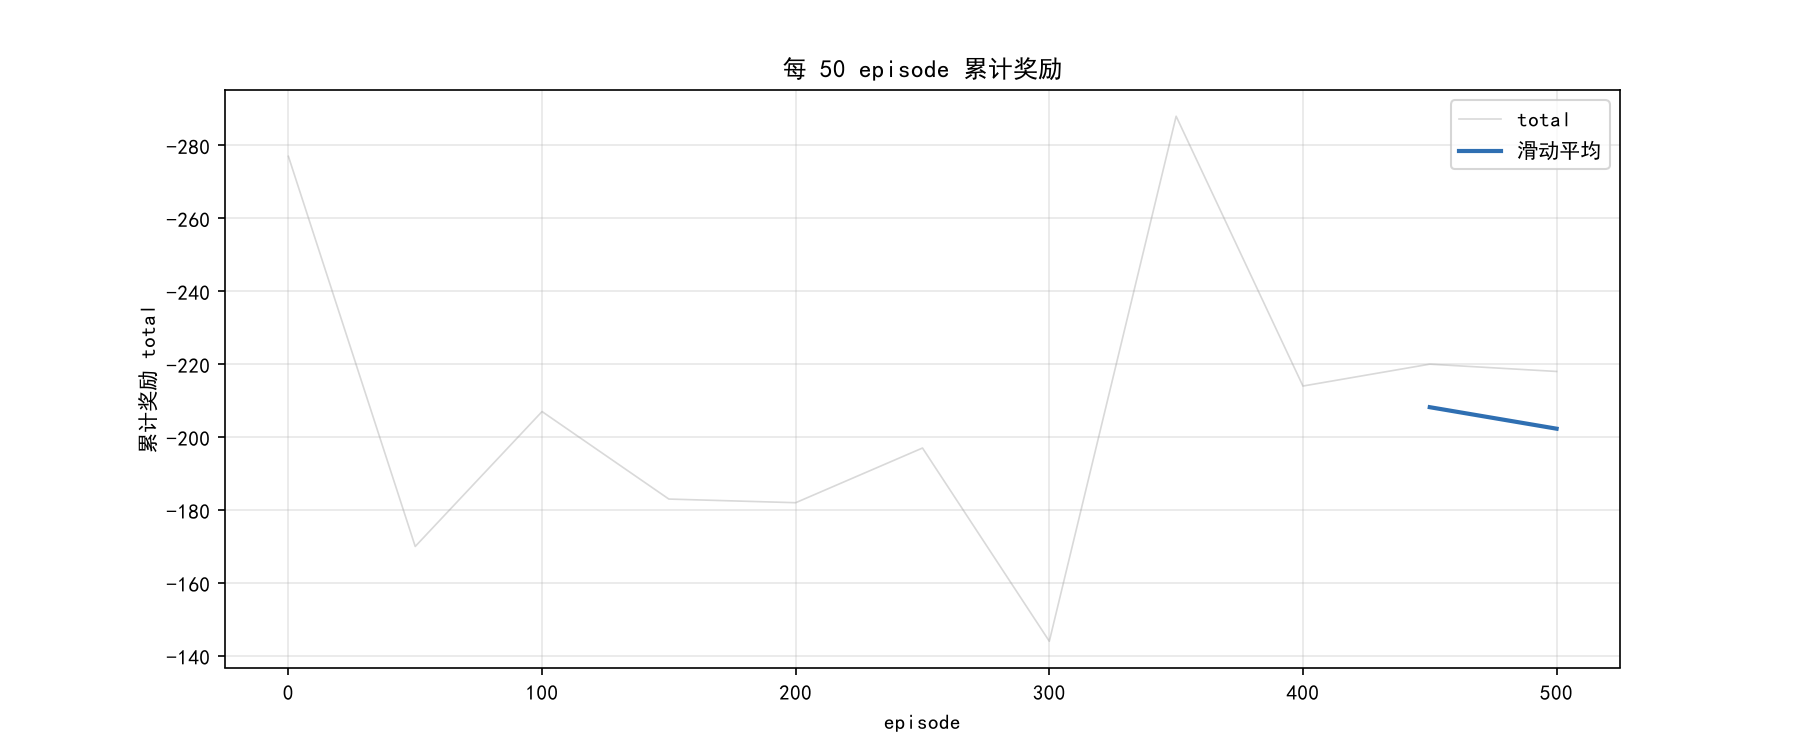
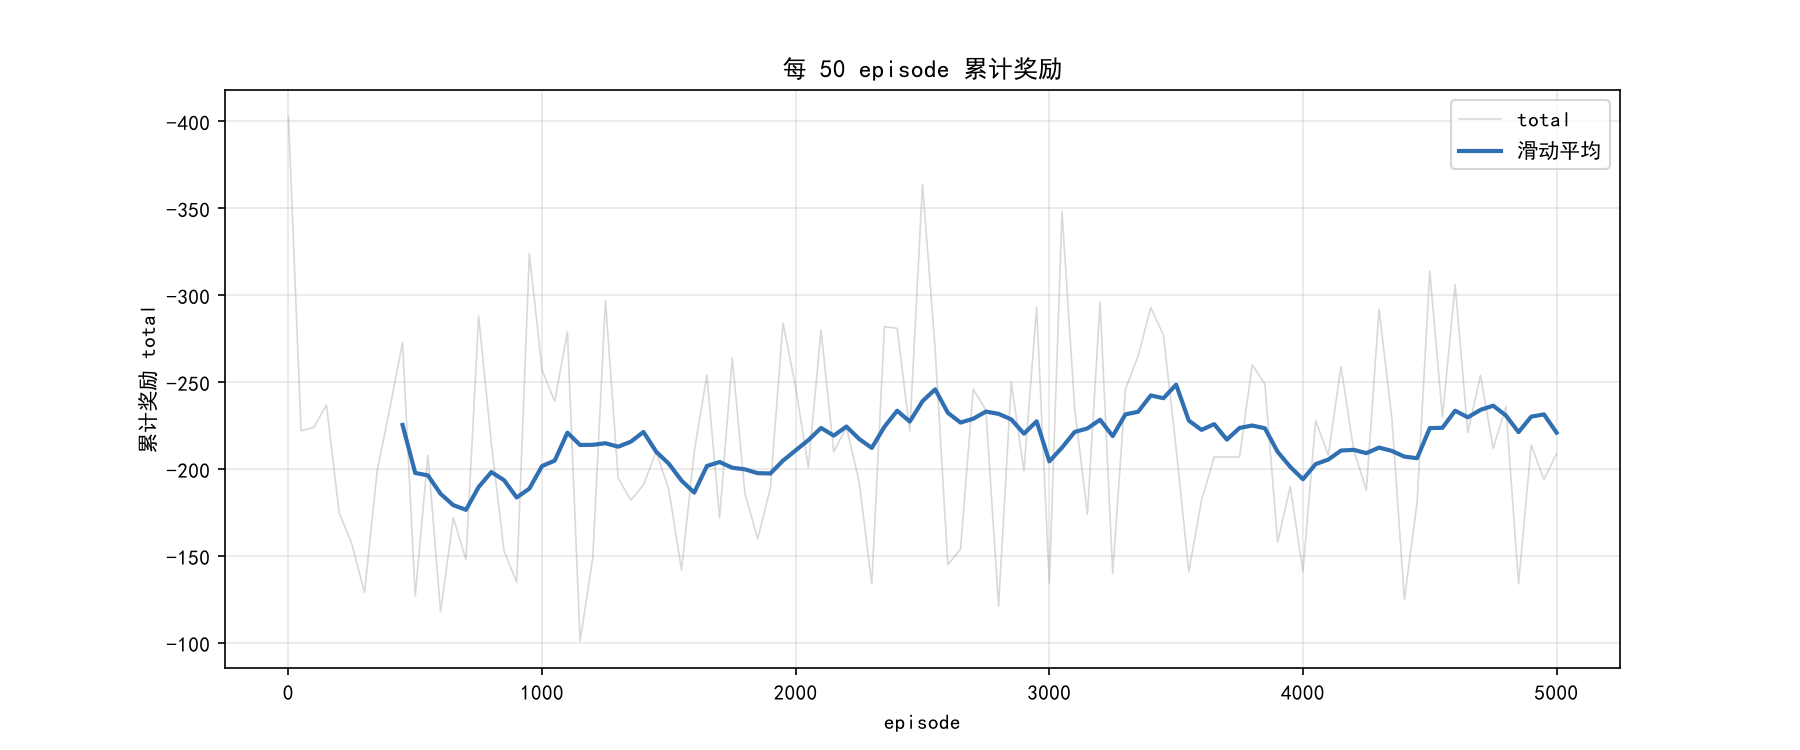
net.xml & rou.xml doc

diff --git a/SUMO/readme.md b/SUMO/readme.md
@@ -82,6 +82,200 @@ if replay_buffer.size() > minimal_size:
     agent.update(transition_dict)
 ```
 
-DQN 的收敛效果显然更好，基本上可以收敛到最优的结果。  
+DQN 的收敛效果显然更好些，基本上可以收敛到最优的结果。  
 
 ![](./res/dqn_total.png)
+
+
+## 分析现有路网与车流文件
+
+SUMO 的配置文件关系是：  
+```
+sumocfg 加载 -> net.xml(地图) + rou.xml (车)  
+```
+
+`cross.sumocfg` 是总开关，`cross.net.xml` 是路网，`cross.rou.xml` 是车流。  
+
+### net.xml
+`<location>` 记录地图的坐标边界，横坐标 - 100 到 500，纵坐标 -300 到 500。  
+``` xml
+<location netOffset="0.00,0.00" convBoundary="-100.00,-300.00,500.00,300.00" origBoundary="10000000000.00,10000000000.00,-10000000000.00,-10000000000.00" projParameter="!"/>
+```
+
+#### `<edge>`一条路段， `<lane>` 路上的一条车道。比如：  
+``` xml
+<edge id="E0" from="J0" to="J1" priority="-1">
+    <lane id="E0_0" index="0" speed="16.67" length="286.40" shape="-100.00,-8.00 186.40,-8.00"/>
+    <lane id="E0_1" index="1" speed="16.67" length="286.40" shape="-100.00,-4.80 186.40,-4.80"/>
+    <lane id="E0_2" index="2" speed="16.67" length="286.40" shape="-100.00,-1.60 186.40,-1.60"/>
+</edge>
+```
+
+- `id` 为路段名  
+- `from`->`to` 从哪到哪  
+- `priority` 静态优先级，-1 为无信号的保底，实际是信号灯接管。  
+lane 内：  
+- `index` 是车道从右往左的编号
+- `speed` 限速以 m/s 为单位  
+- `length` 路段长度(m)  
+- `shape` 几何形状
+
+**edge 命名黄金法则：正向无负号，反向带 `-`**  
+- `E0/E1/E2/E3` = 都驶入交叉口（进）  
+- `-E0/-E1/-E2/-E3` = 都驶出交叉口（出）  
+
+#### `<junction>` 交叉口：  
+
+<!--TODO: 这里不完善-->
+``` xml
+<junction id="J1" type="dead_end" x="-100.00" y="0.00" incLanes="-E0_0 -E0_1 -E0_2" intLanes="" shape="-100.00,0.00 -100.00,9.60 -100.00,0.00"/>
+<junction id="J1" type="traffic_light" x="200.00" y="0.00" incLanes="-E3_0 -E3_1 -E3_2 -E1_0 -E1_1 -E1_2 -E2_0 -E2_1 -E2_2 E0_0 E0_1 E0_2" intLanes=":J1_0_0 :J1_1_0 :J1_12_0 :J1_3_0 :J1_4_0 :J1_13_0 :J1_6_0 :J1_7_0 :J1_14_0 :J1_9_0 :J1_10_0 :J1_15_0" shape="190.40,13.60 209.60,13.60 210.04,11.38 210.60,10.60 211.38,10.04 212.38,9.71 213.60,9.60 213.60,-9.60 211.38,-10.04 210.60,-10.60 210.04,-11.38 209.71,-12.38 209.60,-13.60 190.40,-13.60 189.96,-11.38 189.40,-10.60 188.62,-10.04 187.62,-9.71 186.40,-9.60 186.40,9.60 188.62,10.04 189.40,10.60 189.96,11.38 190.29,12.38">
+    <request index="0"  response="000000000000" foes="000000000000" cont="0"/>
+    <request index="1"  response="100000000000" foes="110100010000" cont="0"/>
+    <request index="2"  response="100010100000" foes="100010110000" cont="1"/>
+    <request index="3"  response="000000000000" foes="000000000000" cont="0"/>
+    <request index="4"  response="000010000110" foes="100010000110" cont="0"/>
+    <request index="5"  response="010110000100" foes="010110000100" cont="1"/>
+    <request index="6"  response="000000000000" foes="000000000000" cont="0"/>
+    <request index="7"  response="000000100000" foes="010000110100" cont="0"/>
+    <request index="8"  response="100000100010" foes="110000100010" cont="1"/>
+    <request index="9"  response="000000000000" foes="000000000000" cont="0"/>
+    <request index="10" response="000110000010" foes="000110100010" cont="0"/>
+    <request index="11" response="000100010110" foes="000100010110" cont="1"/>
+</junction>
+```
+- `J1 type="traffic_light"` 唯一带红绿灯的节点。  
+- `J0-J4 type="dead_end` 地图边缘
+- `:J1_12_0 type="internal"` 交叉口内部节点  
+
+#### `<connection>` 
+``` xml
+<connection from="-E1" to="E3" fromLane="0" toLane="0" via=":J1_3_0" tl="J1" linkIndex="3" dir="r" state="O"/>
+```
+这句的意思是从 `-E1` 的第 0 车道出发，可以转到 `E3` 的第 0 车道。  
+- `dir` 这个转弯时直行(s)、右转(r)、左转(l)  
+- `linkIndex="N"` 这个转弯代表信号灯的哪一位，即 N。也就是 12 位 state 字符串的第 N 位。  
+
+#### `<tlLogic>` 红绿灯
+``` xml
+<tlLogic id="J1" type="static" programID="0" offset="0">
+    <phase duration="33" state="GGgGrrGGgGrr"/>
+    <phase duration="3"  state="yygyrryygyrr"/>
+    <phase duration="6"  state="rrGrrrrrGrrr"/>
+    <phase duration="3"  state="rryrrrrryrrr"/>
+    <phase duration="33" state="GrrGGgGrrGGg"/>
+    <phase duration="3"  state="yrryygyrryyg"/>
+    <phase duration="6"  state="rrrrrGrrrrrG"/>
+    <phase duration="3"  state="rrrrryrrrrry"/>
+</tlLogic>
+```
+
+- `id` 信号灯控制的交叉口  
+- `type="static` 固定配时
+- `duration` 这个相位持续多少秒
+- `state` 12 字符对应 12 个信号灯头(connection 的 linkIndex 0-11)
+
+state 字符含义：  
+- `G` 绿灯/ `g` 绿灯（车流路口的保护绿，等同于 G
+- `y` 黄灯
+- `r` 红灯
+
+例如： `<phase duration="33" state="GGgGrrGGgGrr"/>`
+这里第一位 `G`=linkIndex 0 绿灯  
+第 4 位 `G`，第 7-8 位的 GG……  
+
+信号灯的 12 位字符串信号灯头，其是 connection 的参数，
+```
+<phase duration="33" state="GGgGrrGGgGrr"/>
+按位对号入座，把 12 个灯头的当前灯色列出来：
+
+位:     0   1   2   3   4   5   6   7   8   9  10  11
+state:  G   G   g   G   r   r   G   G   g   G   r   r
+方向:   北右 北直 北左 东右 东直 东左 南右 南直 南左 西右 西直 西左
+灯:     绿  绿  绿  绿  红  红  绿  绿  绿  绿  红  红
+
+读法：第 0 位的 G，意思就是"北→西右转这个灯头现在是绿灯"。
+```
+
+每 3 位是一个进口方向的右转、直行、左转。
+
+### rou.xml
+描述的是什么时候、放什么车、走哪条路。  
+`<routes>...</routes>` 里面的子元素按固定顺序：`vType` -> `route` -> `vehicle` ，SUMO 要求先定义车型和路径，再确定某辆车用哪个车型走哪条路。  
+#### `<vType>` 车型定义
+``` xml
+<vType id="passenger" vClass="passenger" maxSpeed="16.67" accel="2.6" decel="4.5" sigma="0.5" length="5.0" color="1,1,0"/>
+<vType id="truck" vClass="truck" maxSpeed="16.67" accel="1.2" decel="2.5" sigma="0.5" length="12.0" color="1,0,0"/>
+```
+
+- `vClass` 车辆类型
+- `maxSpeed` 最大车速 m/s
+- `accel` 加速度
+- `decel` 减速度
+- `length` 车长
+- `color` GUI 颜色
+
+#### `<route>`  路径定义
+``` xml
+<route id="N_S" edges="-E3 E2"/>  <route id="S_N" edges="-E2 E3"/>  <route id="E_W" edges="-E1 -E0"/> <route id="W_E" edges="E0 E1"/>    
+```
+
+只有四条路，方向就是 id 名  
+比如 `<route id="N_S" edges="-E3 E2"/>` 就是北入南出。net 定义可以走的路，rou 选择走哪些。  
+
+#### `<vehicle>` 具体车辆
+例如：  
+``` xml
+<vehicle id="passenger_1" type="passenger" route="S_N" depart="25" departLane="random" departSpeed="14.26" />
+```
+- `id` 每辆车唯一名字，在 TriCi 要用这个名字操控它  
+- `type` 用的哪个 `<vType>`  
+- `route` 走哪条 `<route>`  
+- `depart` 什么时候进入道路，单位：秒  
+- `departLane` 出现在哪一车道,random:随机车道  
+- `departSpeed` 初速度 m/s  
+
+`<vehicle>` 实际是一份发车时间表。  
+
+### 交通工程核心概念
+#### 制动距离
+车辆以当前速度、以最大减速度刹车到完全停下所滑过的距离。  
+
+$$
+S=\frac{v^2}{2a}
+$$
+
+- $S$ 制动距离
+- $v$ 初始制动速度
+- $a$ 平均减速度  
+
+在判断绿灯变黄/红 时，某辆车能不能在停止线前停下，不能停就让它走，否则就是急刹甚至闯黄。  
+
+#### 黄灯困境区
+黄灯亮起瞬间，车辆处于一段进退两难的位置区：  
+- 若继续前冲，可能来不及在停止线前停下
+- 若急踩刹车，可能根本不够距离刹稳  
+
+定量：黄灯开始时，车离停止线的距离同时小于制动距离且大于按当前速度在黄灯时长能走的距离。  
+
+#### 碰撞时间 TTC
+如果两车保持当前速度和反向不变，再过几秒就会撞上。  
+
+$$
+TTC = \frac{D}{V_{rel}}
+$$
+
+- $D$ 两车之距
+- $V_{rel}$ 相对速度，后车速度 - 前车速度  
+
+TTC 越小越危险，通常 TTC > 3s 比较安全。  
+
+#### 后侵入时间 PET
+前后两辆车先后通过同一冲突点时的时间差。  
+PET = 第二辆车到达冲突点时刻 - 第一辆离开冲突点时刻。  
+
+#### 相位切换惩罚
+信号灯每切换一次相位/改变一次灯色所付出的代价（冲突风险，延误增加……）  
+
+#### 最小绿灯时间
+设定下限，保证绿相位至少放行能启动的那批车。  
